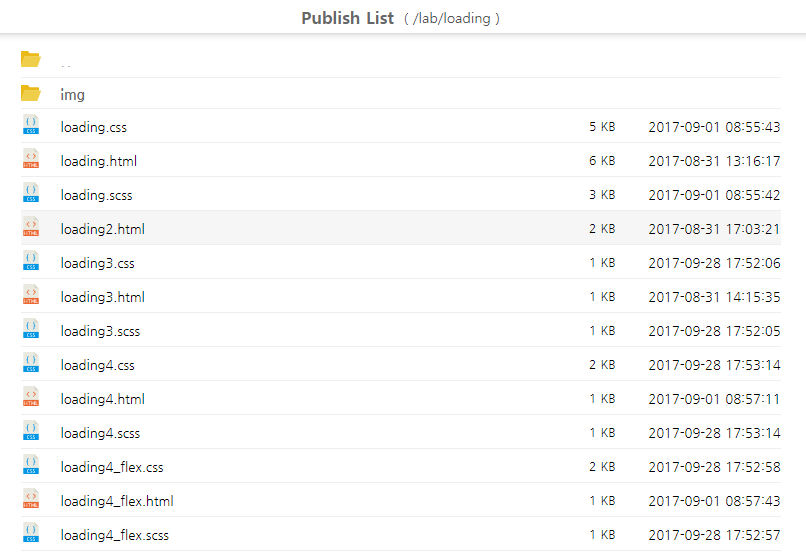
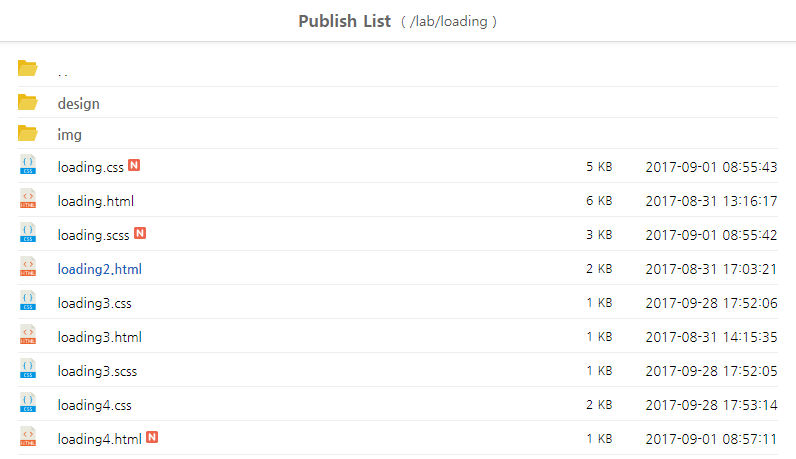
modified

diff --git a/public/stylesheets/style.scss b/public/stylesheets/style.scss
@@ -1,10 +1,7 @@
 @import url(//fonts.googleapis.com/earlyaccess/nanumgothic.css);
-@import url(//fonts.googleapis.com/earlyaccess/notosanskr.css);
-
 *{margin:0;padding:0;box-sizing: border-box;}
 
 $font-nanum: 'Nanum Gothic', sans-serif;
-$font-noto: 'Noto Sans KR', 'Nanum Gothic', sans-serif;
 
 html,body{
     font-family: $font-nanum;
@@ -17,12 +14,10 @@ a{
     text-decoration: none;
     color: #000;
     font-weight: 400;
-    // &:visited{
-    //     color: #999;
-    // }
 }
 .t-center{text-align: center !important}
 .t-right{text-align: right !important}
+.hide{display: none;}
 
 .publish-title{
     display: flex;
@@ -64,40 +59,13 @@ a{
     tr td{
         padding: 5px 10px;
         font-size: 14px;
-
         border-bottom: 1px solid #eee;
 
-        a.prev-folder{
-            display: inline-block;
-            width: 50px;
-            letter-spacing: 2px;
+        &:first-child{
+            padding-left: 3px;
         }
-        &.date{
-            text-align: right;
-        }
-
-        &.file-name.last-page a{
-            color: #1a64ba;
-            font-weight: bold;
-        }
-
-    }
-
-    tr.recent {
-        // background-color: #fffdf3;
-        td.file-name:after{
-            // content:'N';
-            display: inline-flex;
-            align-items: center;
-            justify-content: center;
-            width: 16px;
-            height: 16px;
-            border-radius: 16px;
-            background-color: #ed654d;
-            color: #fff;
-            font-size: 10px;
-            font-weight: bold;
-            text-align: center;
+        &:last-child{
+            padding-right: 3px;
         }
     }
 
@@ -109,21 +77,21 @@ a{
 
     tr.folders{
         cursor: pointer;
-        td.icon{
+        td:first-child{
             text-align: center;
             img{
                 vertical-align: -3px;
             }
         }
-        td.link-folder{
+        td.folder-name{
             font-size: 14px;
-            a{
-                display: inline-block;
-                min-width: 80px;
-                font-weight: bold;
-                text-decoration: none;
-                color: #666;
-            }
+            font-weight: bold;
+            color: #666;
+            padding-left: 0;
+        }
+
+        &.prev-folder{
+            letter-spacing: 2px;
         }
     }
 
@@ -132,20 +100,23 @@ a{
         td{
             font-size: 13px;
         }
+        td.file-name{
+            line-height: 19px;
+            padding-left: 0;
+        }
+        td.file-name.last-page a{
+            color: #1a64ba;
+            font-weight: bold;
+        }
         td.file-size{
             text-align: right;
             font-size: 12px;
         }
+        td.date{
+            font-size: 12px;
+            text-align: right;
+        }
     }
-
-    tr td:first-child{
-        padding-left: 0;
-    }
-    tr td:last-child{
-        padding-right: 0;
-    }
-
-
 
 }
 
@@ -160,7 +131,7 @@ a{
 
     .file-table{
         tr td{
-            padding: 5px 10px;
+            padding: 7px 10px;
         }
         td.date,
         td.file-size{

diff --git a/public/stylesheets/style.css b/public/stylesheets/style.css
@@ -1,5 +1,4 @@
 @import url(//fonts.googleapis.com/earlyaccess/nanumgothic.css);
-@import url(//fonts.googleapis.com/earlyaccess/notosanskr.css);
 * {
 	margin: 0;
 	padding: 0;
@@ -27,6 +26,10 @@ a {
 
 .t-right {
 	text-align: right !important;
+}
+
+.hide {
+	display: none;
 }
 
 .publish-title {
@@ -68,33 +71,12 @@ a {
 	border-bottom: 1px solid #eee;
 }
 
-.file-table tr td a.prev-folder {
-	display: inline-block;
-	width: 50px;
-	letter-spacing: 2px;
+.file-table tr td:first-child {
+	padding-left: 3px;
 }
 
-.file-table tr td.date {
-	text-align: right;
-}
-
-.file-table tr td.file-name.last-page a {
-	color: #1a64ba;
-	font-weight: bold;
-}
-
-.file-table tr.recent td.file-name:after {
-	display: inline-flex;
-	align-items: center;
-	justify-content: center;
-	width: 16px;
-	height: 16px;
-	border-radius: 16px;
-	background-color: #ed654d;
-	color: #fff;
-	font-size: 10px;
-	font-weight: bold;
-	text-align: center;
+.file-table tr td:last-child {
+	padding-right: 3px;
 }
 
 .file-table tr:hover td {
@@ -105,24 +87,23 @@ a {
 	cursor: pointer;
 }
 
-.file-table tr.folders td.icon {
+.file-table tr.folders td:first-child {
 	text-align: center;
 }
 
-.file-table tr.folders td.icon img {
+.file-table tr.folders td:first-child img {
 	vertical-align: -3px;
 }
 
-.file-table tr.folders td.link-folder {
+.file-table tr.folders td.folder-name {
 	font-size: 14px;
+	font-weight: bold;
+	color: #666;
+	padding-left: 0;
 }
 
-.file-table tr.folders td.link-folder a {
-	display: inline-block;
-	min-width: 80px;
-	font-weight: bold;
-	text-decoration: none;
-	color: #666;
+.file-table tr.folders.prev-folder {
+	letter-spacing: 2px;
 }
 
 .file-table tr.files {
@@ -133,17 +114,24 @@ a {
 	font-size: 13px;
 }
 
+.file-table tr.files td.file-name {
+	line-height: 19px;
+	padding-left: 0;
+}
+
+.file-table tr.files td.file-name.last-page a {
+	color: #1a64ba;
+	font-weight: bold;
+}
+
 .file-table tr.files td.file-size {
 	text-align: right;
 	font-size: 12px;
 }
 
-.file-table tr td:first-child {
-	padding-left: 0;
-}
-
-.file-table tr td:last-child {
-	padding-right: 0;
+.file-table tr.files td.date {
+	font-size: 12px;
+	text-align: right;
 }
 
 @media (max-width: 767px) {
@@ -155,7 +143,7 @@ a {
 		width: 100%;
 	}
 	.file-table tr td {
-		padding: 5px 10px;
+		padding: 7px 10px;
 	}
 	.file-table td.date,
 	.file-table td.file-size {

diff --git a/routes/index.js b/routes/index.js
@@ -31,7 +31,6 @@ router.get('/*/', function(req, res, next) {
                     return;
                 }
 
-                //파일과 폴더 분리
                 var fileArr = getFiles(path, files);
                 var folderArr = getFolders(path, files);
 
@@ -51,10 +50,8 @@ router.get('/*/', function(req, res, next) {
             });
         }
         else if(stat.isFile()){
-            res.sendfile(path);
-
+            res.sendFile(path);
         }
-
 
     });
 
@@ -66,7 +63,8 @@ var iconList =
     ,'html','jpg','js','json','mp3'
     ,'mp4','pdf','png','ppt','pptx'
     ,'psd','scss','txt','unknown','xls'
-    ,'xlsx','xml','zip','7z','alz']
+    ,'xlsx','xml','zip','7z','alz'];
+
 function getIcon(name){
     var ext = name.split('.')[name.split('.').length - 1];
     if(iconList.indexOf(ext) > -1) return ext;
@@ -81,7 +79,6 @@ function getFileSize(bytes){
         return '1 KB';
     }
 }
-
 function getFiles(path, arr){
     let fileArr = [];
     arr.forEach((e,i) => {
@@ -91,7 +88,9 @@ function getFiles(path, arr){
             fileArr.push({
                 fileName: e,
                 mDate: moment(stat.mtime).format('YYYY-MM-DD HH:mm:ss'),
-                isRecent: moment(stat.mtime).isSame(new Date(), "day"),
+                isRecentModified: moment(stat.mtime).isSame(new Date(), "day"),
+                isRecentCreated: moment(stat.birthtime).isSame(new Date(), "day"),
+                // isRecentCreated: false,
                 icon: getIcon(e),
                 size: getFileSize(stat.size)
             })
@@ -99,7 +98,6 @@ function getFiles(path, arr){
     })
     return fileArr;
 }
-
 function getFolders(path, arr){
     let folderArr = [];
     arr.forEach((e,i) => {

diff --git a/app.js b/app.js
@@ -13,7 +13,7 @@ var app = express();
 app.set('views', path.join(__dirname, 'views'));
 app.set('view engine', 'ejs');
 
-app.use(logger('dev'));
+//app.use(logger('dev'));
 app.use(express.json());
 app.use(express.urlencoded({ extended: false }));
 app.use(cookieParser());

diff --git a/config.js b/config.js
@@ -1,5 +1,5 @@
 var config = {
     port: 10280,
-    root: 'd://nodejs/publish_list/output',
+    root: 'd://publish/output',
 }
 module.exports = config;
